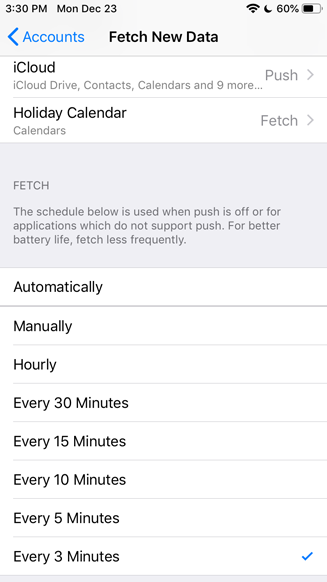
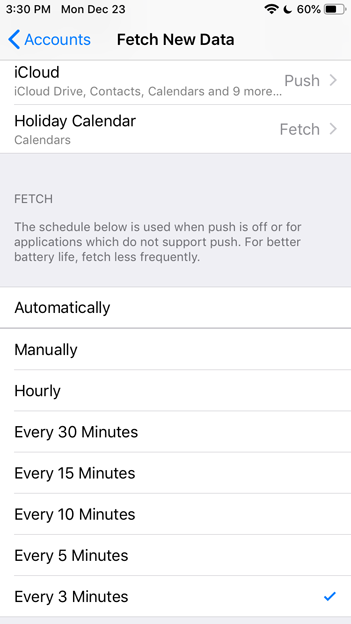
Fix PM margins
Update PushMod64 to have proper margins

diff --git a/resources/PushMod64.html b/resources/PushMod64.html
@@ -17,9 +17,9 @@ body,td,th {
 }
 body {
 	background-color: #FFF;
-	margin-left: .25in;
+	margin-left: .125in;
 	margin-top: .5in;
-	margin-right: .25in;
+	margin-right: .125in;
 	margin-bottom: .5in;
 }
 .text2 {
@@ -42,7 +42,7 @@ body {
 <p align="center"><u>Please Note:</u></p>
 <p align="center">PushMod64 makes a backup of the stock settings to restore upon uninstallation of the tweak. </p>
 <p align="center">Be careful using any tool that may remove a file appended with .bak, because it may delete your original fetch settings and they won't be able to be restored.</p>
-<p align="center" class="text2"><img src="https://isteve-o.github.io/resources/PushMod64.png" width="327px" height="582px" alt="PushMod64 Screen Shot" longdesc="https://isteve-o.github.io/resources/PushMod64.png" /></p>
+<p align="center" class="text2"><img src="https://isteve-o.github.io/resources/PushMod64.png" width="351px" height="624px" alt="PushMod64 Screen Shot" longdesc="https://isteve-o.github.io/resources/PushMod64.png" /></p>
 <p align="center">Follow me on Twitter: <a href="https://twitter.com/isteve_o/">@iSteve-O</a></p>
 <p>&nbsp;</p>
 <p align="center" class="text3">iSteve-O</p>
